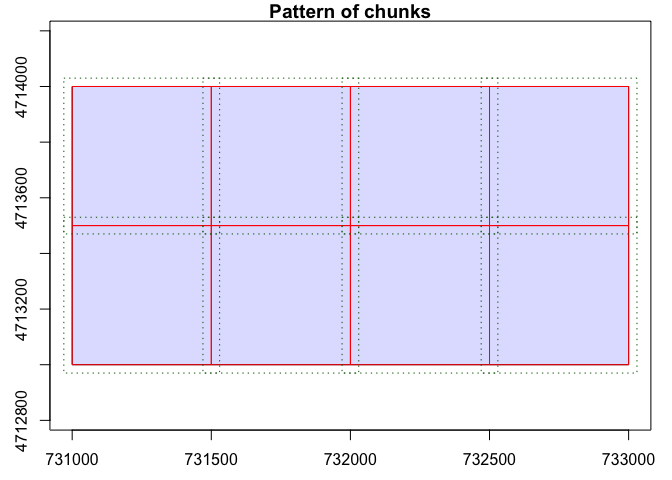
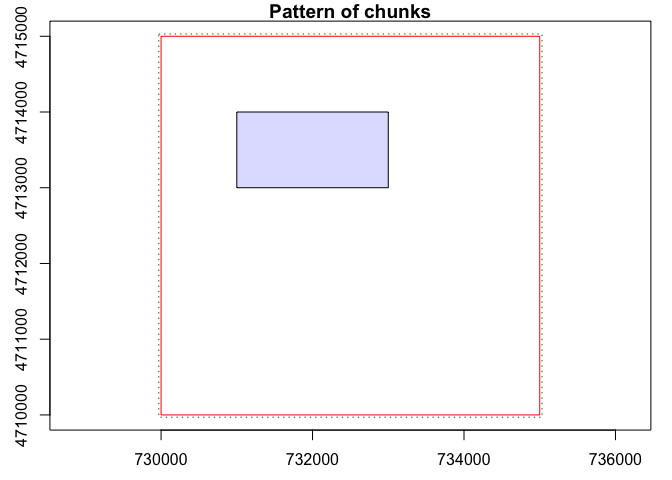
Created hulls for segmented trees

diff --git a/README.md b/README.md
@@ -86,7 +86,7 @@ f <- function(x) {
   y[x > 20] <- 5
   return(y)
 }
-lidR::opt_chunk_size(ctg) <- 500
+lidR::opt_chunk_size(ctg) <- 5000
 ```
 
 ``` r
@@ -117,7 +117,7 @@ sf::st_write(ttops, fs::path(output_dir, "treetops", "treetops.fgb"), append = F
 ttops
 ```
 
-    Simple feature collection with 43170 features and 2 fields
+    Simple feature collection with 43169 features and 2 fields
     Geometry type: POINT
     Dimension:     XY
     Bounding box:  xmin: 731000 ymin: 4713000 xmax: 733000 ymax: 4714000
@@ -155,4 +155,32 @@ ctg
     points      : 35.06 million points
     density     : 17.5 points/m²
     density     : 6.7 pulses/m²
-    num. files  : 8 
+    num. files  : 1 
+
+## Create convex hulls around each segmented tree
+
+Needs some cleaning up
+
+``` r
+ctg <- lidR::readLAScatalog(
+  fs::path(output_dir, "clouds")
+)
+lidR::opt_chunk_size(ctg) <- 50000
+```
+
+``` r
+library(lidR)
+# las <- lidR::readLAS(ctg[1,])
+cm_las <- lidR::crown_metrics(ctg, func = .stdtreemetrics, attribute = "IDwater", geom = "concave") |> 
+  dplyr::filter(convhull_area < 400) |> 
+  sf::st_make_valid()
+```
+
+``` r
+# removed all trees that are greater than 400 square meters in area
+# because those ones usually have really weird hulls
+```
+
+``` r
+sf::st_write(cm_las, fs::path(output_dir, "hulls.fgb"), append = FALSE)
+```
